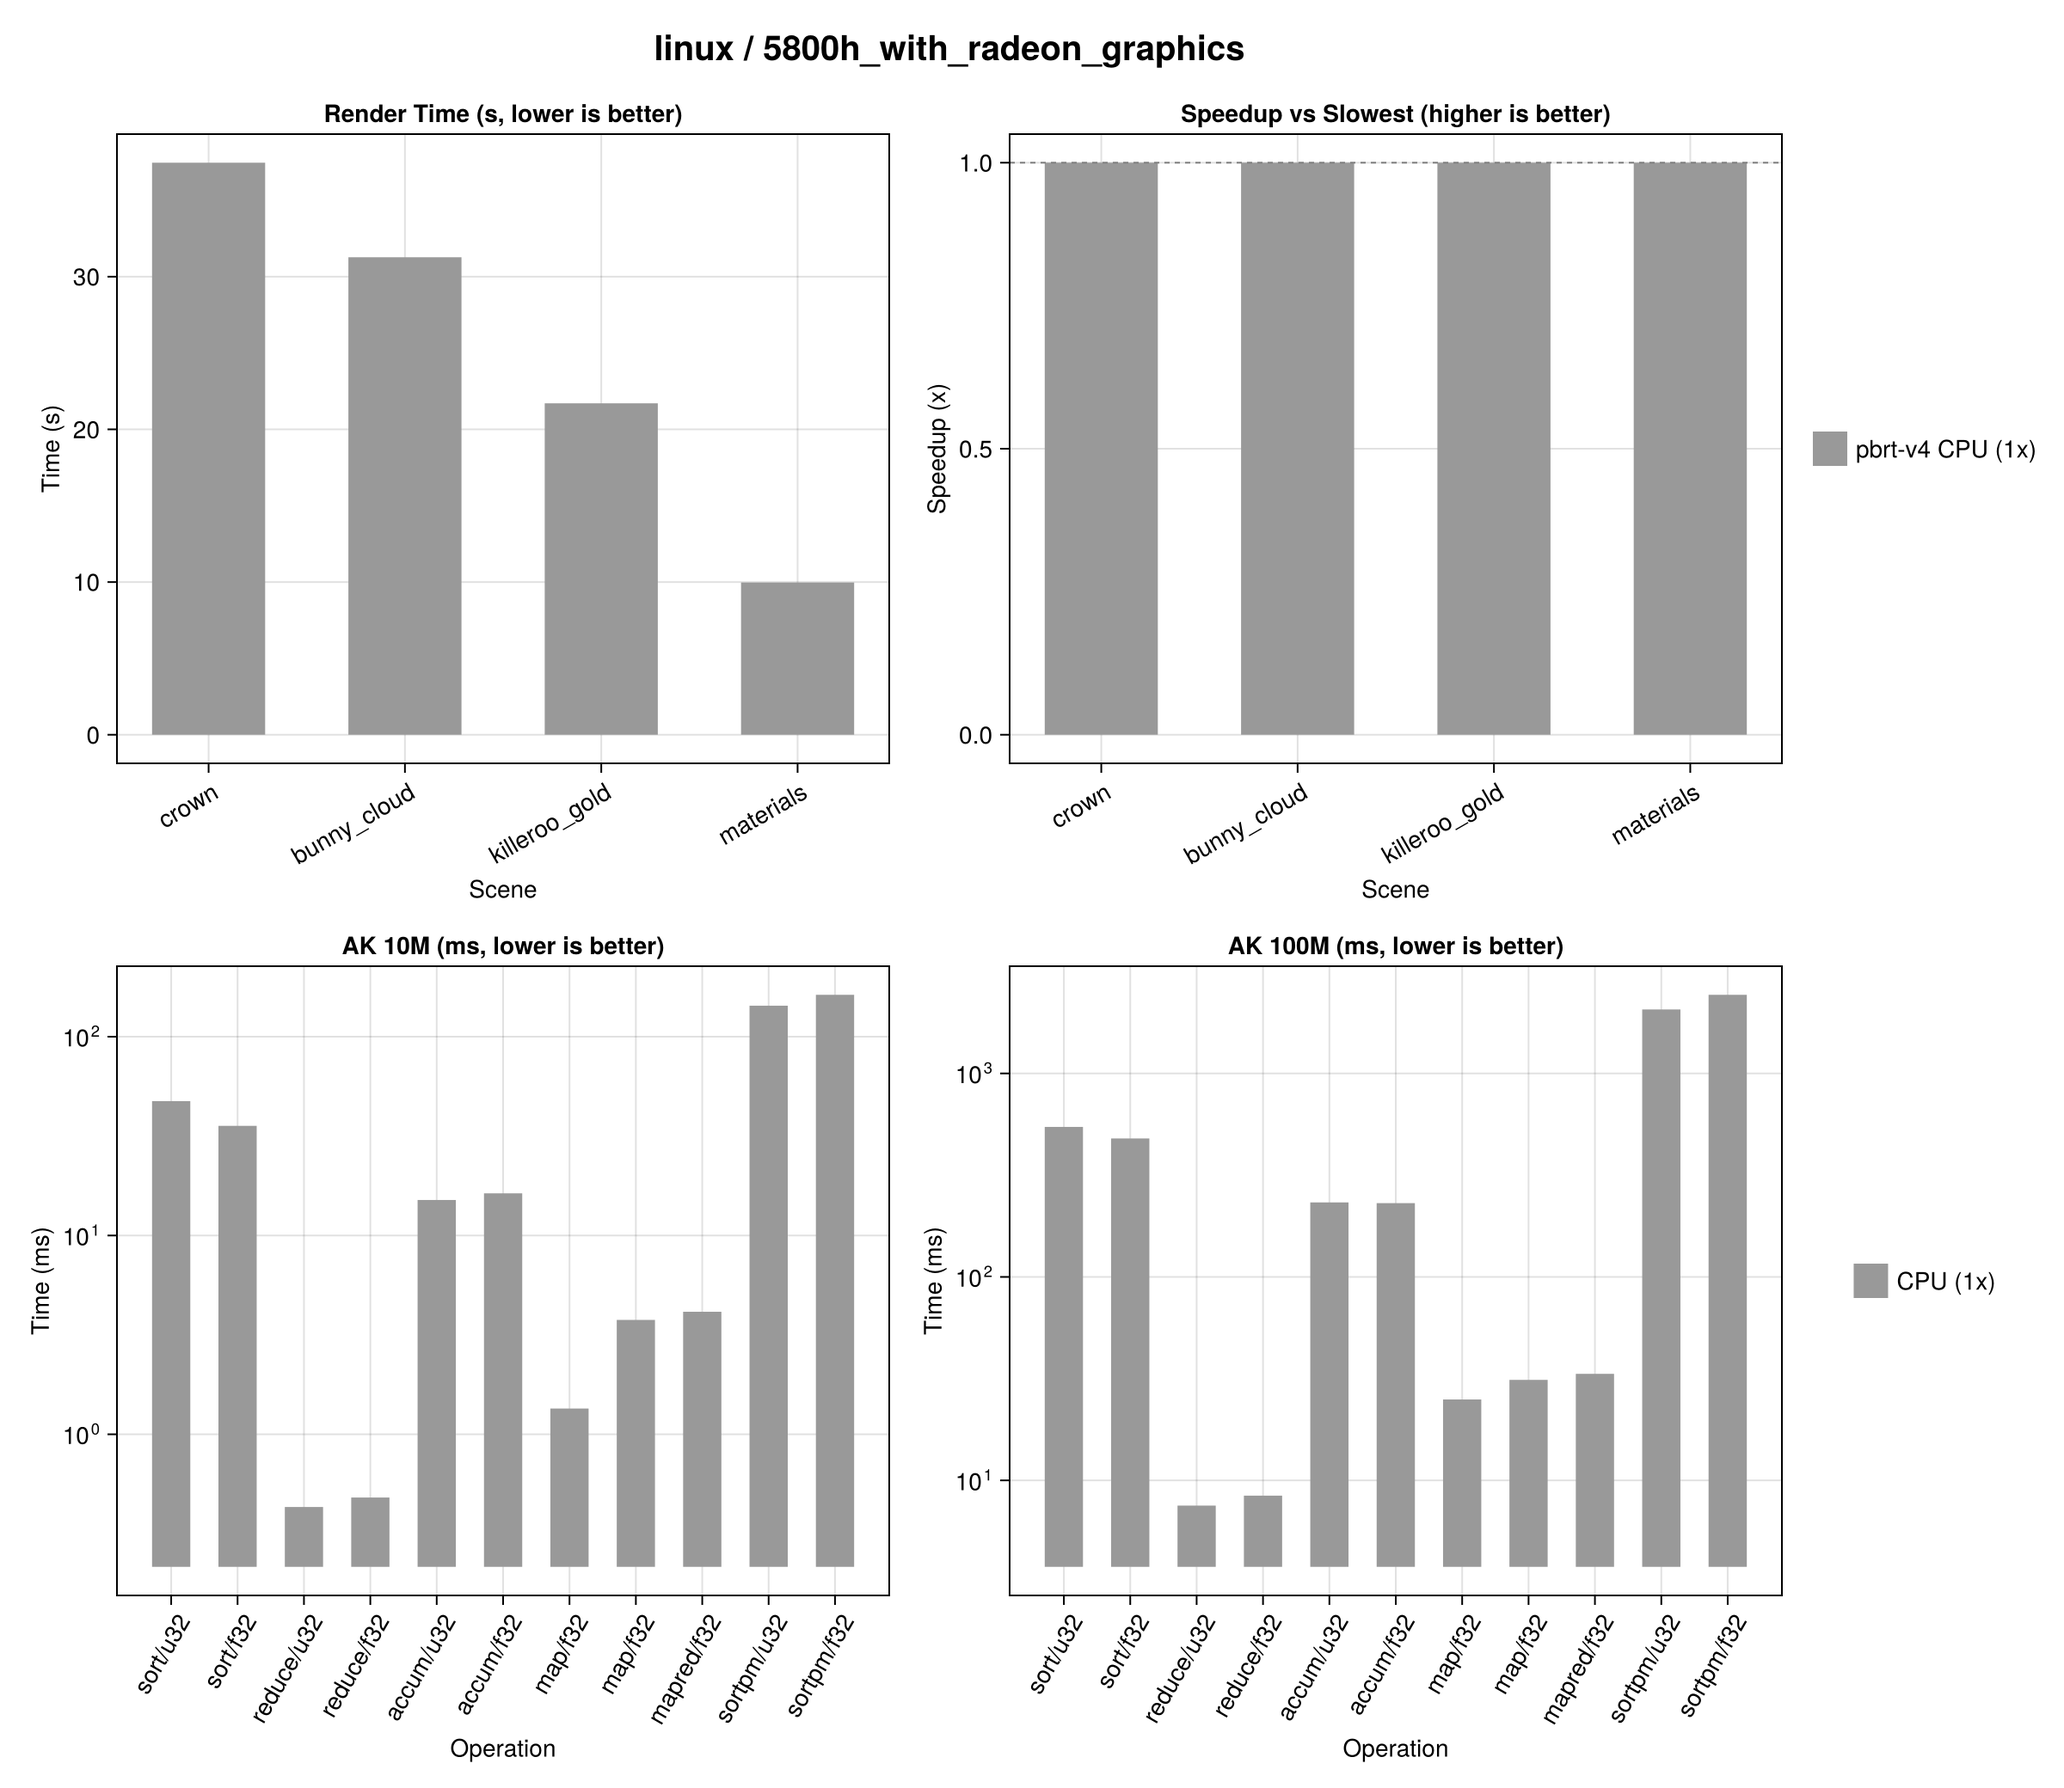
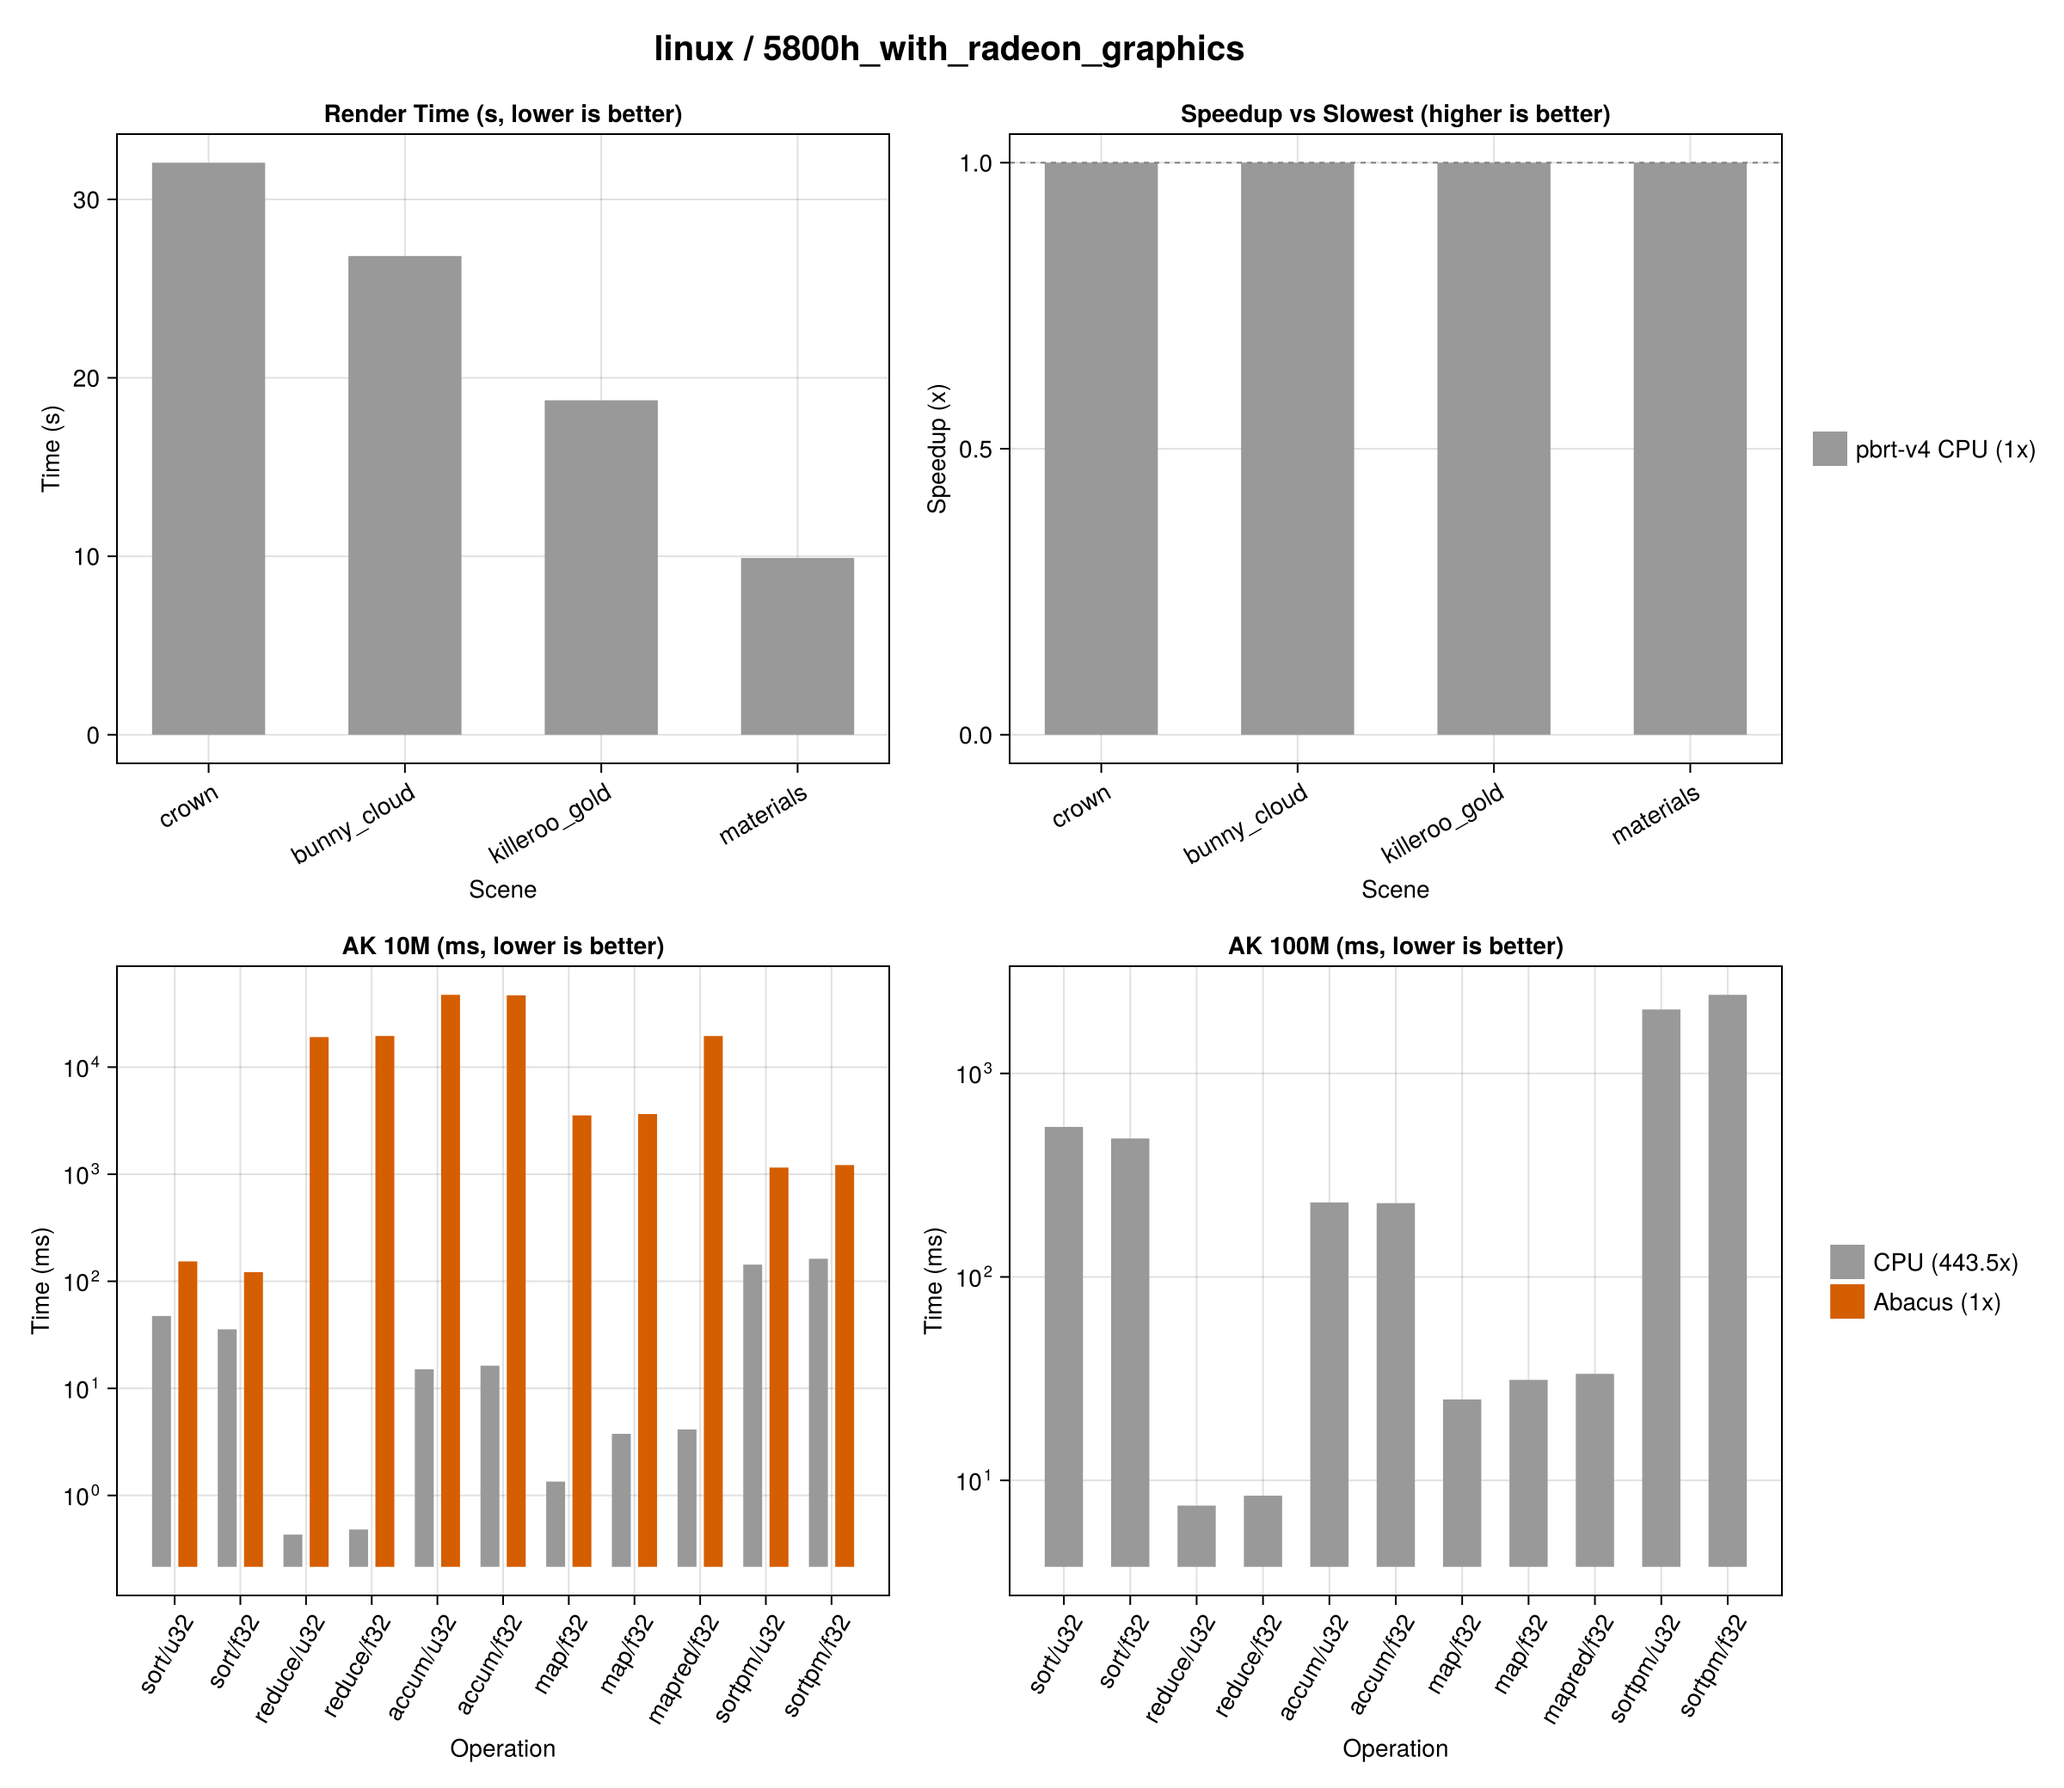
add results

diff --git a/README.md b/README.md
@@ -1,6 +1,19 @@
 # RayDemo
 
-Demo scenes for [RayMakie](https://github.com/MakieOrg/Makie.jl/tree/sd/hikari/RayMakie) and [Hikari](https://github.com/pxl-th/Trace.jl), physically-based ray tracing in Julia. Each folder contains self-contained scripts that set up a scene and render it with spectral path tracing on GPU (AMD ROCm via AMDGPU.jl).
+Demo scenes for [RayMakie](https://github.com/MakieOrg/Makie.jl/tree/sd/hikari/RayMakie) and [Hikari](https://github.com/pxl-th/Trace.jl), physically-based ray tracing in Julia. Each folder contains self-contained scripts that set up a scene and render it with spectral path tracing on GPU.
+
+## Benchmarks — AMD RX 7900 XTX
+
+![RayDemo Benchmarks on 7900 XTX](benchmark/results/plots/7900xtx.png)
+
+Render times and compute kernel benchmarks on AMD RX 7900 XTX / Ryzen 9 7900X. Compares three backends:
+- **Lava HW RT** — [Lava.jl](https://github.com/SimonDanisch/Lava.jl) with hardware ray tracing (`VK_KHR_ray_tracing_pipeline`)
+- **Lava SW** — Lava.jl with software BVH traversal (compute shaders only)
+- **AMDGPU** — [AMDGPU.jl](https://github.com/JuliaGPU/AMDGPU.jl) via ROCm/HIP
+
+Lava SW is **1.4-2.5x faster than AMDGPU** across all scenes. Hardware RT adds another **1.0-2.3x** on geometry-heavy scenes. Bottom row: AcceleratedKernels.jl compute benchmarks at 10M and 100M elements — Lava is up to **23x faster** on dispatch-sensitive workloads.
+
+Full benchmark data in [`benchmark/results/`](benchmark/results/).
 
 ## Setup
 
@@ -11,7 +24,10 @@ julia --project=.
 using Pkg; Pkg.instantiate()
 ```
 
-Rendering requires an AMD GPU with ROCm support. To use CUDA instead, replace `AMDGPU.ROCBackend()` with `CUDA.CUDABackend()` in the scripts.
+Rendering requires a GPU. Supported backends:
+- **Lava.jl** (Vulkan) — `LavaBackend()` — works on AMD, NVIDIA, Intel, Apple (MoltenVK)
+- **AMDGPU.jl** (ROCm) — `ROCBackend()` — AMD only
+- **CUDA.jl** — `CUDABackend()` — NVIDIA only
 
 ---
 
